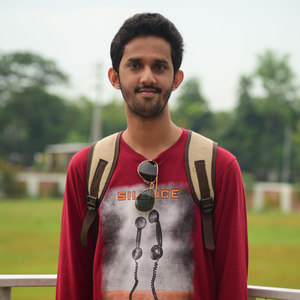
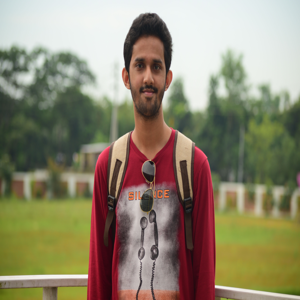
used BytesIO to the models files

diff --git a/user_profile/models.py b/user_profile/models.py
@@ -6,6 +6,11 @@ from users.models import CustomUser
 from django.urls import reverse
 
 from PIL import Image
+from io import BytesIO
+from django.core.files.uploadedfile import InMemoryUploadedFile
+import sys
+    
+
 from django.core.files.storage import default_storage as storage
 
 from django.db import DEFAULT_DB_ALIAS
@@ -60,11 +65,18 @@ class UserProfileInfo(models.Model):
 
 
     def save(self, *args, **kwargs):
-        super(UserProfileInfo, self).save(*args, **kwargs)
         if self.User_image:
-            filename = str(self.User_image.path)
-            img = Image.open(filename)
-            width, height = img.size  # Get dimensions
+
+            img = Image.open(self.User_image)
+            outputIoStream = BytesIO()
+
+            imageTemporaryResized = img.resize( (300,300) )
+            imageTemporaryResized.save(outputIoStream, format='png', quality=150)
+            outputIoStream.seek(0)
+            self.User_image = InMemoryUploadedFile(outputIoStream, 'ImageField', "%s.png" %self.User_image.name.split('.')[0], 'image/png', sys.getsizeof(outputIoStream), None)
+            super(UserProfileInfo, self).save(*args, **kwargs)
+
+            '''width, height = img.size  # Get dimensions
 
             if width > 300 and height > 300:
                 # keep ratio but shrink down
@@ -89,11 +101,12 @@ class UserProfileInfo(models.Model):
 
             if width > 300 and height > 300:
                 img.thumbnail((300, 300), Image.ANTIALIAS)
-            img.save(filename)
-            '''fh = storage.open(self.User_image.name, "wb")
-            format = 'png'
-            img.save(fh, format)
-            fh.close()'''
+
+            image_file = StringIO.StringIO()
+            img.save(image_file, 'JPEG', quality=90)
+
+            User_image.file = image_file'''
+
 
 
 

diff --git a/users/models.py b/users/models.py
@@ -6,6 +6,10 @@ from PIL import Image
 from django.core.files.storage import default_storage as storage
 from django.db import DEFAULT_DB_ALIAS
 
+from io import BytesIO
+from django.core.files.uploadedfile import InMemoryUploadedFile
+import sys
+
 
 class CustomUser(AbstractUser):
     email = models.EmailField(unique=True)
@@ -18,6 +22,17 @@ class CustomUser(AbstractUser):
     def save(self, *args, **kwargs):
         self.username = self.email
         self.last_login = timezone.now()
+
+        if self.image_thumbnail:
+
+            img = Image.open(self.image_thumbnail)
+            outputIoStream = BytesIO()
+
+            imageTemporaryResized = img.resize( (100,100) )
+            imageTemporaryResized.save(outputIoStream, format='png', quality=90)
+            outputIoStream.seek(0)
+            self.image_thumbnail = InMemoryUploadedFile(outputIoStream, 'ImageField', "%s.png" %self.image_thumbnail.name.split('.')[0], 'image/png', sys.getsizeof(outputIoStream), None)
+            
         
         super(CustomUser, self).save(*args, **kwargs)
 

diff --git a/user_profile/views.py b/user_profile/views.py
@@ -62,11 +62,11 @@ def detailUserProfileInfo(request, pk):
             
             p.save()
 
-            '''if User_image:
+            if User_image:
 
                 user_thumbnail = CustomUser.objects.get(id=request.user.id)
                 user_thumbnail.image_thumbnail = User_image
-                user_thumbnail.save()'''
+                user_thumbnail.save()
             
             
            
@@ -130,11 +130,11 @@ def detailUserProfileInfo(request, pk):
 
                 user_profile.save()
 
-                '''if User_image:
+                if User_image:
 
                     user_thumbnail = CustomUser.objects.get(id=request.user.id)
                     user_thumbnail.image_thumbnail = User_image
-                    user_thumbnail.save()'''
+                    user_thumbnail.save()
 
 
                 
